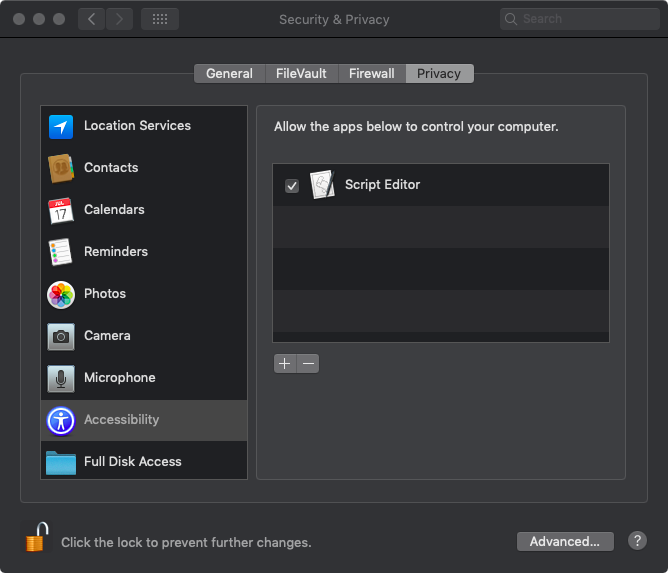
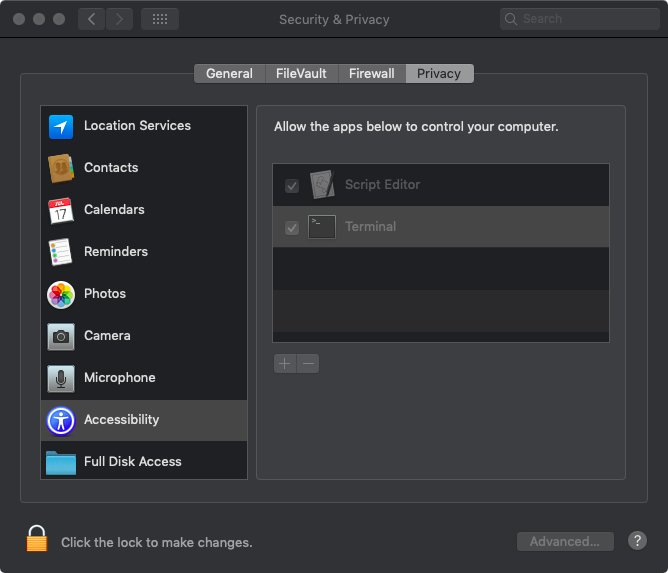
score

diff --git a/onetenth/README.md b/onetenth/README.md
@@ -31,8 +31,8 @@ Enable Access for assistive devices to run this script:
 ![assistive devices access](enable.png)
 
 $ open -a applescript\ editor
--- tell application "System Events" to tell process "Emma 02" to get the position of the front window
-tell application "System Events" to tell process "Emma 02" to set the position of the front window to {1032, 606}
+> tell application "System Events" to tell process "Emma 02" to get the position of the front window
+$ osascript -e 'tell application "System Events" to tell process "Emma 02" to set the position of the front window to {1032, 606}'
 
 Which device is screen 0:
 
